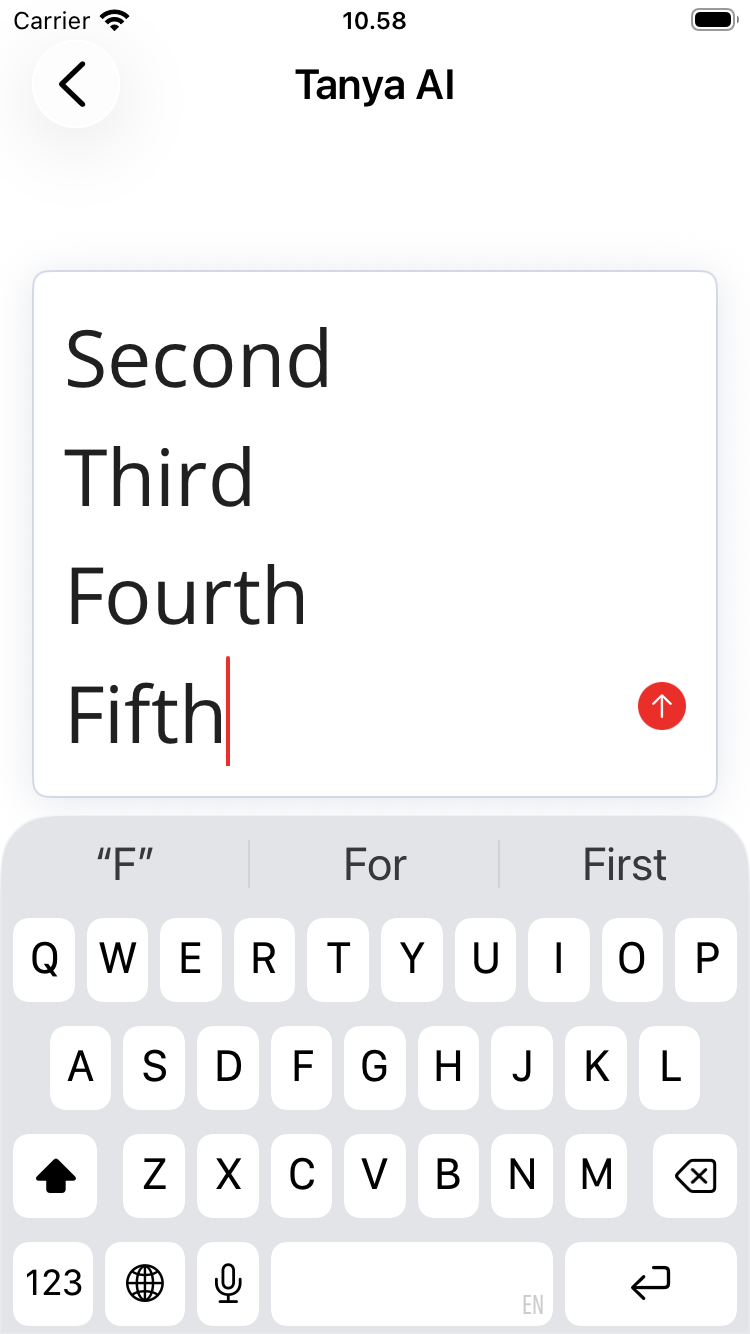
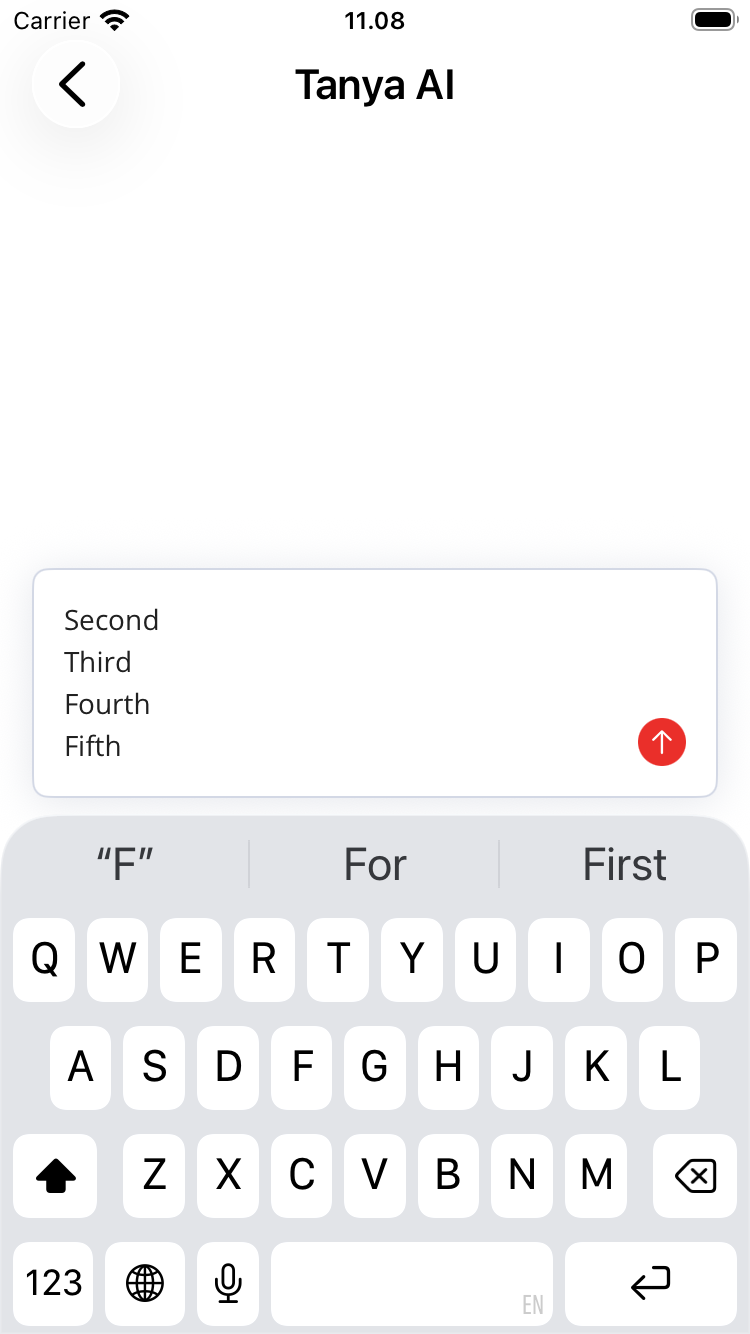
Keep composer typography fixed across system text size settings

diff --git a/TanyaAISandboxUITests/StartingPointUITests.swift b/TanyaAISandboxUITests/StartingPointUITests.swift
@@ -100,25 +100,39 @@ final class StartingPointUITests: XCTestCase {
         XCTAssertEqual(input.value as? String, "Keep my draft")
     }
 
-    func testLargestTextKeepsComposerAndActionVisible() {
-        launch(
-            locale: "zh-Hans",
-            extra: ["-UIPreferredContentSizeCategoryName", "UICTContentSizeCategoryAccessibilityXXXL"])
-        let input = application.textViews["composer.input"]
-        XCTAssertTrue(input.waitForExistence(timeout: 10))
-        let send = application.buttons["composer.send"]
-        XCTAssertEqual(input.frame.midY, send.frame.midY, accuracy: 1)
-        input.tap()
-        input.typeText("First")
-        let initialButtonCenter = send.frame.midY
-        XCTAssertEqual(input.frame.midY, initialButtonCenter, accuracy: 1)
-        input.typeText("\nSecond\nThird\nFourth\nFifth")
-        XCTAssertEqual(send.frame.midY, initialButtonCenter, accuracy: 1)
-        XCTAssertGreaterThan(send.frame.midY, input.frame.midY)
-        XCTAssertTrue(send.isHittable)
-        XCTAssertLessThanOrEqual(input.frame.maxX, send.frame.minX + 1)
-        XCTAssertLessThanOrEqual(send.frame.maxX, application.frame.maxX)
-        capture("starter-accessibility-zh-Hans")
+    func testTextSizeSettingKeepsComposerFontAndLayoutFixed() {
+        var referenceSizes: [CGSize]?
+        for category in ["UICTContentSizeCategoryL", "UICTContentSizeCategoryAccessibilityXXXL"] {
+            launch(locale: "zh-Hans", extra: ["-UIPreferredContentSizeCategoryName", category])
+            let input = application.textViews["composer.input"]
+            XCTAssertTrue(input.waitForExistence(timeout: 10))
+            let send = application.buttons["composer.send"]
+            XCTAssertEqual(input.frame.midY, send.frame.midY, accuracy: 1)
+            let emptySize = input.frame.size
+            input.tap()
+            input.typeText("First")
+            let singleLineSize = input.frame.size
+            let initialButtonCenter = send.frame.midY
+            XCTAssertEqual(input.frame.midY, initialButtonCenter, accuracy: 1)
+            input.typeText("\nSecond\nThird\nFourth\nFifth")
+            XCTAssertEqual(send.frame.midY, initialButtonCenter, accuracy: 1)
+            XCTAssertGreaterThan(send.frame.midY, input.frame.midY)
+            XCTAssertTrue(send.isHittable)
+            XCTAssertLessThanOrEqual(input.frame.maxX, send.frame.minX + 1)
+            XCTAssertLessThanOrEqual(send.frame.maxX, application.frame.maxX)
+            let sizes = [emptySize, singleLineSize, input.frame.size, application.otherElements["composer"].frame.size]
+            if let referenceSizes {
+                for (actual, reference) in zip(sizes, referenceSizes) {
+                    XCTAssertEqual(actual.width, reference.width, accuracy: 1)
+                    XCTAssertEqual(actual.height, reference.height, accuracy: 1)
+                }
+                assertVisualInsets(isMultiline: true)
+                capture("starter-accessibility-zh-Hans")
+            } else {
+                referenceSizes = sizes
+            }
+            application.terminate()
+        }
     }
 
     func testHostCanCloseAndReopenWithoutNavigationLink() {

diff --git a/Packages/DesignKit/Sources/DesignKit/Components/MessageComposer/MessageComposer.swift b/Packages/DesignKit/Sources/DesignKit/Components/MessageComposer/MessageComposer.swift
@@ -12,8 +12,8 @@ import SwiftUI
 public struct MessageComposer: View {
     @Binding
     private var text: String
-    @ScaledMetric(relativeTo: .body)
-    private var fontSize = FigmaSize.typographySizeDisplaySmall14.scaledToArtwork
+    // Figma typography follows artwork scaling only, independent of the user's text size setting.
+    private let fontSize = FigmaSize.typographySizeDisplaySmall14.scaledToArtwork
     private let placeholder: String
     private let sendLabel: String
     private let isEnabled: Bool
@@ -121,9 +121,7 @@ public struct MessageComposer: View {
     }
 
     private var lineSpacing: CGFloat {
-        let leading =
-            FigmaSize.typographyLineHeightDisplaySmall14
-            * fontSize / FigmaSize.typographySizeDisplaySmall14
+        let leading = FigmaSize.typographyLineHeightDisplaySmall14.scaledToArtwork
         return max(InitialValues.zeroCGFloat, leading - inputFont.lineHeight)
     }
 

diff --git a/Packages/DesignKit/Tests/DesignKitTests/EditorTests.swift b/Packages/DesignKit/Tests/DesignKitTests/EditorTests.swift
@@ -37,7 +37,7 @@ final class EditorTests: XCTestCase {
         XCTAssertFalse(editor.isScrollEnabled)
     }
 
-    func testComposerAdaptsFontAndWrapsWithoutGrowingHorizontally() throws {
+    func testComposerWrapsWithoutGrowingHorizontallyAcrossTextSizeSettings() throws {
         try FontFace.registerFonts()
         for width: CGFloat in [320, 375, 430] {
             for category: ContentSizeCategory in [.large, .accessibilityExtraExtraExtraLarge] {

diff --git a/docs/VALIDATION.md b/docs/VALIDATION.md
@@ -7,14 +7,14 @@
 | DesignKit: registrasi tujuh font/glyph, hex, sizing, editor dan layout | 8 tes lulus |
 | TanyaAI: locale, optional anchor/identity, pergantian host, animator | 7 tes lulus |
 | Hosted unit: fullscreen, navigation stack, duplicate/offscreen/modal lain, dismiss, pelepasan memori | 4 tes lulus |
-| UI: tiga bahasa, posisi satu/empat baris, inset visual, tepi tap, whitespace, callback, font terbesar, tutup/buka | 7 tes lulus |
+| UI: tiga bahasa, satu/empat baris, inset visual, tepi tap, whitespace, callback, font fixed, tutup/buka | 7 tes lulus |
 | Build generic iOS Simulator, deployment minimum iOS 15 | Lulus |
 | SwiftLint/formatter, batas file/method, token/copy guard | Lulus |
 | Link dokumentasi dan generated token diff | Lulus; nilai token tidak berubah, header Wendra ditambahkan |
 
 Total **26 tes unik**. Unit layout mencakup lebar 320/375/430 dengan normal dan
-accessibility XXXL. Sizing diuji sampai 1024 point tanpa cap. Ini bukan pengujian
-UI iPad, runtime iOS 15/device atau pengukuran rendered FPS.
+accessibility XXXL (font composer tetap). Sizing diuji sampai 1024 point tanpa cap.
+Ini bukan pengujian UI iPad, runtime iOS 15/device atau pengukuran rendered FPS.
 
 Pengujian presentasi memakai `TanyaAISandboxTests` dengan sandbox app sebagai
 test host dan UIWindowScene aktif. SwiftPM unit tests hanya menangani layout
@@ -32,26 +32,27 @@ Gambar tidak diedit atau dibuat dengan generator gambar.
 - [简体中文](../Artifacts/Screenshots/starter-zh-Hans.png)
 - [Satu baris dan keyboard](../Artifacts/Screenshots/starter-one-line-keyboard.png)
 - [Empat baris dan keyboard](../Artifacts/Screenshots/starter-four-lines-keyboard.png)
-- [Accessibility XXXL](../Artifacts/Screenshots/starter-accessibility-zh-Hans.png)
+- [Pengaturan accessibility XXXL, font composer tetap](../Artifacts/Screenshots/starter-accessibility-zh-Hans.png)
 
 Action tetap terlihat dan berada di atas keyboard. Teks panjang scroll di dalam
 editor setelah empat baris. UI test memeriksa pusat field/tombol sejajar saat
 kosong/satu baris dan posisi tombol tetap saat teks bertambah menjadi empat
-baris atau lebih, pada ukuran font normal dan accessibility XXXL. Setelah kirim,
+baris atau lebih, pada pengaturan teks normal dan accessibility XXXL. Setelah kirim,
 input menyusut dan kembali sejajar tengah. Ketujuh font Fira Sans/Open Sans terdaftar dengan
 PostScript name yang dibaca dari file aslinya. Registrasi dua kali diuji aman;
 Chinese memakai fallback glyph native pada setiap face, diuji tanpa glyph 0.
 SF Symbol send masih dummy TODO. Verifikasi font brand final tetap mengikuti aset
 resmi yang nanti diberikan, termasuk keputusan font Chinese brand.
 
-Ukuran dasar composer dan placeholder memakai token 14 dengan leading role 21;
-artwork scaling dan Dynamic Type tetap aktif. Pada artwork 375 dengan font normal,
-tes UI memeriksa jarak 16 antara border dan lingkaran tombol kanan/bawah, field
+Composer dan placeholder memakai token 14 dengan leading role 21, hanya mengikuti
+artwork scaling; Dynamic Type tidak mengubah font/leading composer. UI test
+membandingkan ukuran field kosong, satu baris, empat baris dan composer pada
+pengaturan normal dengan accessibility XXXL: semuanya tetap sama.
+Pada artwork 375, tes UI memeriksa jarak 16 antara border dan lingkaran tombol kanan/bawah, field
 kiri, serta field atas ketika multiline. Tap target tetap 44×44; tap dekat tepi
 atas/bawah/kiri/kanannya, di luar lingkaran 24, berhasil mengirim draft. Padding
 mengompensasi inset tiap sisi `(44 - 24) / 2 = 10`, sehingga padding luar area
-tap adalah 6. Pada Dynamic Type besar, minimum row dapat membesar untuk menjaga
-posisi tengah tombol terhadap satu baris teks.
+tap adalah 6, termasuk saat pengaturan ukuran teks pengguna diperbesar.
 
 Screenshot sekarang diambil setelah membuka feature melalui `.tanyaAIHost(host)`
 dan `host.present()`. Header native sementara menyediakan judul dan tombol kembali;

diff --git a/docs/STARTING_POINT.md b/docs/STARTING_POINT.md
@@ -51,18 +51,19 @@ Packages/
    memaksa lebar konten; tinggi dibatasi empat baris, kemudian scrolling aktif.
 5. Buat composer: placeholder, field, action, surface. Token ukuran dasar memakai
    `typographySizeDisplaySmall14` dengan leading 21 dari role yang sama.
-   `@ScaledMetric` mempertahankan Dynamic Type; UIKit dan placeholder memakai UIFont yang sama.
+   Font/leading hanya memakai `.scaledToArtwork`, tanpa `@ScaledMetric` atau
+   UIFontMetrics. Pengaturan ukuran teks pengguna tidak mengubah ukuran composer.
+   UIKit dan placeholder memakai UIFont fixed yang sama.
    Parent hanya memberi Binding, label, palette/font pilihan dan callback kirim.
    Field dan tombol mempunyai minimum tinggi row yang sama, sehingga satu baris
    sejajar tengah. HStack tetap memakai `.bottom`: ketika field membesar, tombol
    bertahan di bawah dan field tumbuh ke atas. Minimum row mengikuti font,
-   leading, padding dan minimum tap target, termasuk untuk Dynamic Type.
+   leading, padding dan minimum tap target.
    Padding visual memakai `spacingLarge`: lingkaran 24 berada di tengah tap target
    44, sehingga inset tiap sisi `(44 - 24) / 2 = 10`. Padding di luar tap target
    menjadi `16 - 10 = 6`, agar jarak lingkaran ke border tetap 16. Field tetap
    berjarak 16 di kiri; inset vertikal field 10 ditambah padding luar 6 menjaga
-   jarak teks multiline 16 di atas/bawah. Satu baris mengikuti pusat visual tombol;
-   Dynamic Type dapat memperbesar row agar teks dan tombol tetap bisa digunakan.
+   jarak teks multiline 16 di atas/bawah. Satu baris mengikuti pusat visual tombol.
 6. Buat screen: draft `@State`, area kosong, composer di bawah, margin luar.
    Baca locale host, resolve resource label dan kirimkan ke komponen.
 7. Pasang bridge `.tanyaAIHost(host)` pada root existing. Satu `TanyaAIHost`
@@ -96,7 +97,8 @@ container sebelum diadopsi. Ukuran/shadow tetap dapat disesuaikan melalui token.
 - Pada artwork 375, padding visual 16, termasuk tombol kanan/bawah dan teks kiri/atas multiline.
 - Draft hanya dibersihkan setelah host menerima callback.
 - Label English/Indonesia/Chinese benar dan font tidak menjadi kotak glyph kosong.
-- Dynamic Type terbesar tetap bisa digunakan, dan placeholder memakai font editor.
+- Composer tetap berukuran sama pada pengaturan teks normal maupun accessibility XXXL;
+  placeholder memakai font editor. Artwork scaling tetap mengikuti lebar layar.
 
 Setelah tahap ini diterima, tambahkan header/welcome, lalu bubble dan data. Migrasi
 komponen existing ke `Legacy` bisa menjadi PR terpisah setelah fondasi stabil.

diff --git a/AGENTS.md b/AGENTS.md
@@ -48,8 +48,9 @@ tersedia pada history/main.
   ambigu antar-family. Tambahkan file asli beserta lisensi dan nama PostScript
   yang dibaca dari metadata; jangan menyamakan nama file dengan PostScript.
 - Composer memakai token `typographySizeDisplaySmall14` dan leading role yang
-  sama. `@ScaledMetric` mempertahankan Dynamic Type. Editor dan
-  placeholder menerima UIFont yang sama; jangan menerapkan scaling dua kali.
+  sama, hanya dengan `.scaledToArtwork`. Ukuran font/leading tidak mengikuti
+  pengaturan Dynamic Type pengguna; jangan menambahkan `@ScaledMetric` atau
+  UIFontMetrics. Editor dan placeholder menerima UIFont fixed yang sama.
   Glyph Chinese yang tidak ada di Open Sans menggunakan fallback native iOS.
 - Copy fitur berada di resource `en`, `id`, `zh-Hans`. Screen membaca locale dari
   environment dan menyuplai label ke DesignKit. Tidak ada copy bisnis di DesignKit.
@@ -75,8 +76,8 @@ tersedia pada history/main.
   dan minimum tap diterapkan. Kurangi inset ini dari padding luar tombol dan
   jarak field/tombol; jangan menambahkannya lagi ke jarak visual. Pada 44/24,
   inset 10 menyisakan padding 6. Field memakai inset vertikal tersebut agar teks
-  multiline tetap berjarak 16 dari border. Dynamic Type boleh menambah tinggi
-  minimum row untuk mempertahankan posisi tengah tombol pada satu baris.
+  multiline tetap berjarak 16 dari border. Pengaturan ukuran teks pengguna tidak
+  mengubah tinggi row atau batas empat baris composer.
 - `ChatScreen(onSend:)` mengosongkan draft hanya jika callback host mengembalikan
   true. Starter tidak mengirim network, tidak menyimpan atau log isi pesan.
 - Integrasi host tetap `.tanyaAIHost(host)` + `host.present()`/`dismiss()`.
